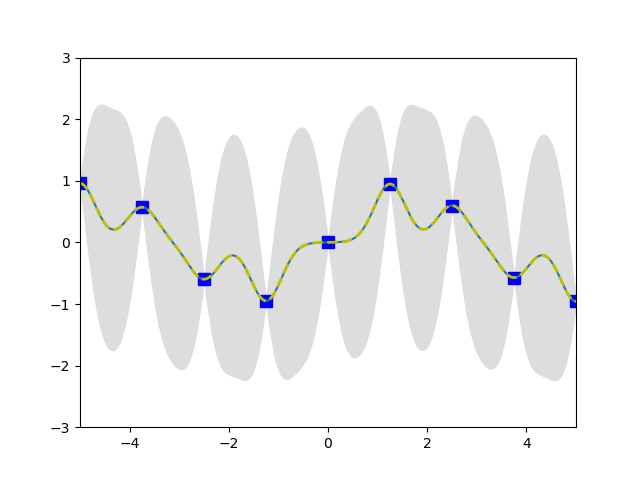
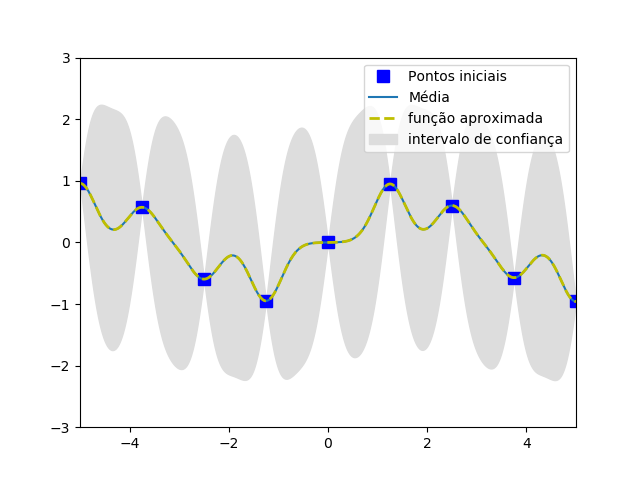
questão 5

Changed region(s): [[0.5625, 0.125, 0.875, 0.3125]]

diff --git a/questao-5.py b/questao-5.py
@@ -40,5 +40,6 @@ plt.plot(Xn,mu,label="Média")
 plt.gca().fill_between(Xn, mu-2*stdv,mu+2*stdv,color="#dddddd",label="intervalo de confiança")
 plt.plot(Xn,mu,"y--",lw=2,label="função aproximada")
 plt.axis([-5,5,-3,3])
+plt.legend()
 plt.show()
 

diff --git a/README.md b/README.md
@@ -344,6 +344,8 @@ A imagem retornada é:
 
 ![](https://github.com/pdelfino/stochastic-process/blob/master/questao-4.png)
 
+Nesse caso, cada salto é uma chegada.
+
 O output gerado é:
 
 ```python
@@ -351,7 +353,9 @@ s/100000 no tópico (i):  12.503331366866945
 s/100000 no tópico (ii): 12.508935816992528
 ```
 
+O resultado teórico é uma integral simples que resulta em `25/2`,isto é, exatamente 12.5.
 
+Portanto, o resultado teórico e empírico-numérico-estocástico é o mesmo.
 
 ----
 
@@ -359,17 +363,36 @@ s/100000 no tópico (ii): 12.508935816992528
 
 
 
-Seguindo a seção 9.5 das notas de aula e com a ajuda da Victória e do Hugo, colegas do curso, obtivemos:
+Seguindo a seção 6.3  das notas de aula e com a ajuda da Victória e do Hugo, colegas do curso, obtivemos:
 
+Dado um vetor X, com poucos pontos, vetor Y que vc observa os valores de X, que também tem poucos pontos.
 
+Distribuição Bayesiana. Queremos descobrir a posteriori.
+
+Pegamos um vetor X* com pontos igualmente espaçados na reta
+
+Queremos a distrbuição de Y* no intervalo dado 
+
+X* -pi a pi igualmente separados
+
+Aqui fizemos de -5  a 5
+
+Queremos a distribuição de Y* dado X, X*, Y
+
+Nas notas temos os valores da média e da covar
+
+Y* é uma normal multivariada
 
 ```python
 import numpy as np
 import matplotlib.pyplot as plt
 
+#xl é o x linha
+# exemplo 6.2.2 da apostila
 def kernel_f(x,xl,sigma,l):
     return sigma**2*np.exp(-5.*(1/l**2)*(x-xl)**2)
 
+# calculando a matriz do Kzão
 def K(X,Xl,sigma,l):
     n, m = X.shape[0],Xl.shape[0]
     K = np.zeros((n,m))
@@ -378,7 +401,9 @@ def K(X,Xl,sigma,l):
             K[i,j] = kernel_f(X[i], Xl[j], sigma, l)
     return K
 
+#retorna a média e a covariância, pag 95 da apostila
 def exercicio5(X, X_new, Y, sigma):
+    #constrói as 4 matrizes e faz a conta
     KXX = K(X,X,1,1)
     KXnX = K(X_new, X, 1, 1)
     KXXn = K(X,X_new, 1, 1)
@@ -406,6 +431,7 @@ plt.plot(Xn,mu,label="Média")
 plt.gca().fill_between(Xn, mu-2*stdv,mu+2*stdv,color="#dddddd",label="intervalo de confiança")
 plt.plot(Xn,mu,"y--",lw=2,label="função aproximada")
 plt.axis([-5,5,-3,3])
+plt.legend()
 plt.show()
 
 ```
@@ -416,7 +442,15 @@ O código retorna:
 
 ![](https://github.com/pdelfino/stochastic-process/blob/master/questao-5.png)
 
+O Y é o seno de x mais o ruído (epsolon). A área de cinza expressa o intervalo de confiança.
 
+A linha de amarela é a função seno
+
+A linha em verde pontilhada é a média
+
+O ponto de azul é o observado
+
+O trace
 
 ----
 
